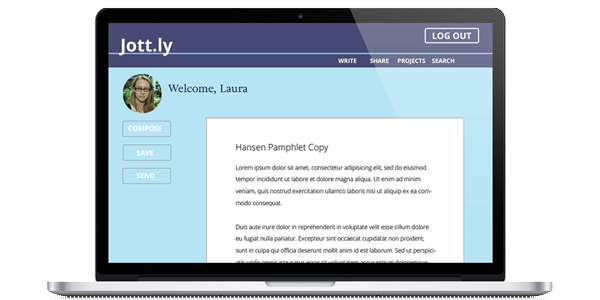
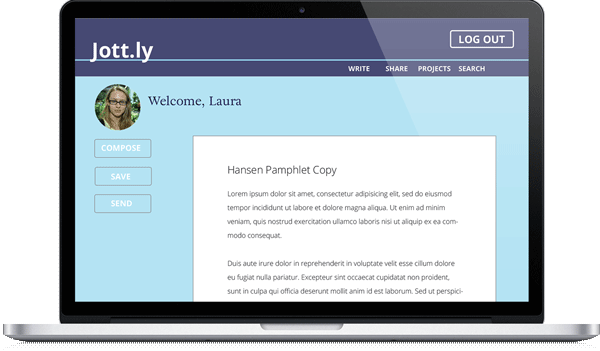
Updated Responsive Code

diff --git a/css/style.css b/css/style.css
@@ -10,46 +10,6 @@ div#header {
   min-height: 700px; 
 }
 
-.round {
-  background-color: blue;
-  height: 125px;
-  width: 125px;
-  border-radius: 60px;
-  background-position: center; 
-}
-
-.round_2 {
-  background-color: blue;
-  height: 260px;
-  width: 260px;
-  border-radius: 130px;
-  margin-left: 10px;
-  margin-bottom: 10px;
-}
-
-#feature1 {
-  background-image: url('../images/feature1.png');
-  background-position: center; 
-}
-
-#feature2 {
-  background-image: url('../images/feature2.png');
-  background-position: center; 
-}
-
-#feature3 {
-  background-image: url('../images/feature3.png');
-  background-position: center;
-}
-
-#tanner {
-  background-image: url('../images/Tanner.png')
-}
-
-#laura {
-  background-image: url('../images/Laura.png');
-}
-
 header {
   margin-top:20px;
 }
@@ -132,6 +92,21 @@ div#features {
   padding-bottom: 10px;
 }
 
+#feature1 {
+  background-image: url('../images/feature1.png');
+  background-position: center; 
+}
+
+#feature2 {
+  background-image: url('../images/feature2.png');
+  background-position: center; 
+}
+
+#feature3 {
+  background-image: url('../images/feature3.png');
+  background-position: center;
+}
+
 div#features h3 {
   font-weight: bold;
   font-size: 42px;
@@ -147,18 +122,31 @@ div#features p {
 
 
 div#marketing_2 {
-  margin-top: 20px;
+  margin-top: 0;
   text-align: center;
   font-size: 18px;
-  font-color:#333333;
-  opacity: .8;
+  padding-top: 20px;
+}
+
+div#marketing_2 h4 {
+  color: #333;
 }
 
 div#marketing_2 h3 {
+  color: #333;
   font-family: "Open Sans", Arial, Helvetica, sans-serif;
   font-weight: bold;
   font-size: 16 px;
   line-height: .5; 
+}
+
+div#marketing_2 button {
+  margin-top: 15px;
+}
+
+div#macbook {
+  background-color: #fff;
+  padding: 0;
 }
 
 div#screengrab {
@@ -177,7 +165,7 @@ div#screengrab {
 }
 
 
-div#testimonials {
+#testimonials {
   text-align: center;
   padding:30px 0;
   background-color:#061859;
@@ -194,16 +182,41 @@ div#marketing_3 h2 {
   text-align: center; 
 }
 
-div#testimonials p {
+#testimonials p {
   color: #fff; 
   text-align: left;
   margin-top: 10px;
 }
 
-div#marketing_2 button {
-  margin-top: 15px;
+#tanner {
+  background-image: url('../images/Tanner.png')
 }
 
+#laura {
+  background-image: url('../images/Laura.png');
+}
+
+.four.columns {
+  margin-left: 20px;
+}
+
+.round {
+  background-color: blue;
+  height: 125px;
+  width: 125px;
+  border-radius: 60px;
+  background-position: center; 
+}
+
+.round_2 {
+  background-color: blue;
+  height: 260px;
+  width: 260px;
+  border-radius: 130px;
+  margin-left: auto;
+  margin-right: auto;
+  margin-bottom: 10px;
+}
 
 div#footer {
   background-color: #99cccc;

diff --git a/index.html b/index.html
@@ -22,6 +22,7 @@
   <link rel="stylesheet" href="css/normalize.css">
   <link rel="stylesheet" href="css/skeleton.css">
   <link rel="stylesheet" href="css/style.css">
+  <link rel="stylesheet" href="css/responsive.css">
 
   <!-- Favicon
   –––––––––––––––––––––––––––––––––––––––––––––––––– -->
@@ -80,17 +81,17 @@
               </div>
             </div>
           </div>
-        </div>
+        </div> 
         <div id="macbook" class="container">
               <div id="marketing_2">
                       <h4>Yesterday, more than 500 writers and editors signed up for Jott.ly.</h4>
                       <h3><em>Want to join them?</em></h3>
                       <button class="button-primary">Sign up</button>
               </div>
-              <div id="screengrab" class="six columns offset-by-two">
+              <div id="screengrab" class="six columns offset-by-three">
                   <img src="images/macbook.png"/>
               </div> 
-        </div>
+        </div> 
         <div id="testimonials">
               <div class="container">
                 <div id="marketing_3">

diff --git a/css/responsive.css b/css/responsive.css
@@ -1,4 +1,19 @@
-@media (min-width: 400px) {
+@media (max-width: 480px) {
+
+  div#testimonials p {
+    color: #fff; 
+    text-align: center;
+    margin-top: 10px;
+  }
+
+  #tanner, #laura {
+    margin: 0 auto;
+  }
+
+  .four.columns {
+    margin-left: 0px;
+  }
+
   header h1 {
     display: block;
     text-align: center;
@@ -22,6 +37,28 @@
     border-bottom: none;
     padding: 5px 0;
     background-color: #999ccc;
+  }
+
+  div#marketing h6 {
+    color: #333;
+  }
+
+.left {
+    visibility: hidden;
+    clear: both;
+    float: left;
+    margin: 10px auto 5px 20px;
+    width: 28%;
+    display: none;
+  }
+
+  .right {
+    visibility: hidden;
+    clear: both;
+    float: left;
+    margin: 10px auto 5px 20px;
+    width: 28%;
+    display: none;
   }
 
   div#footer nav {
